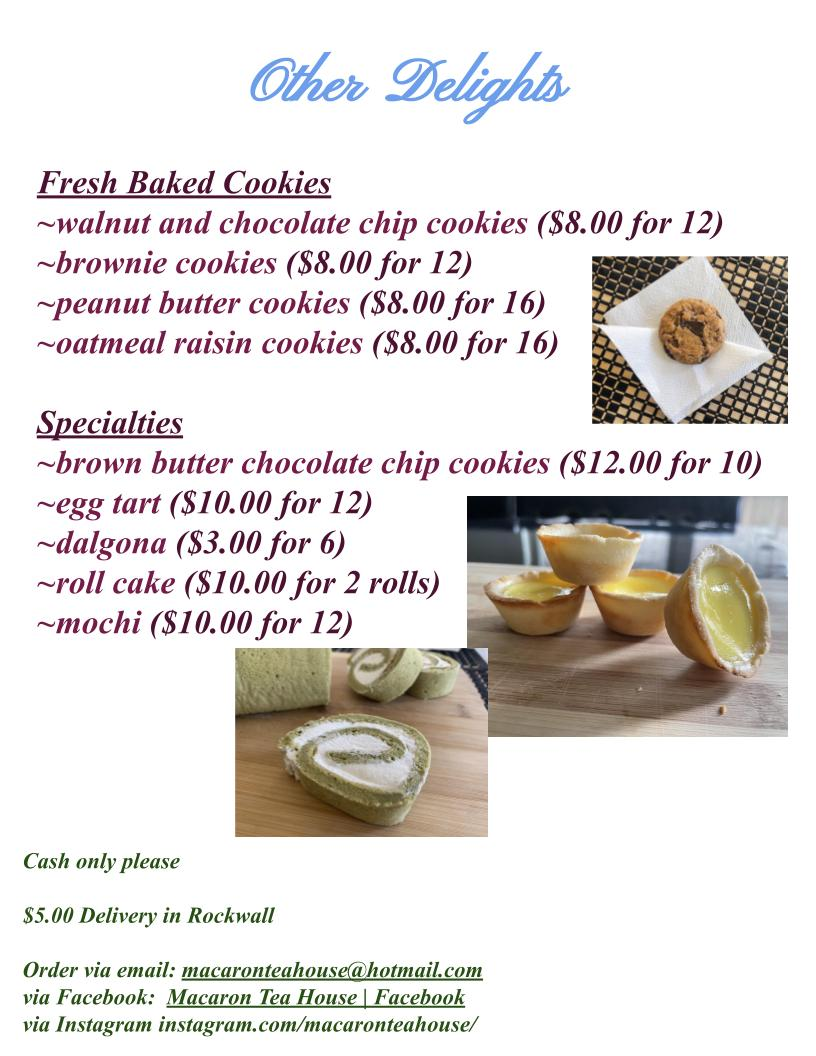
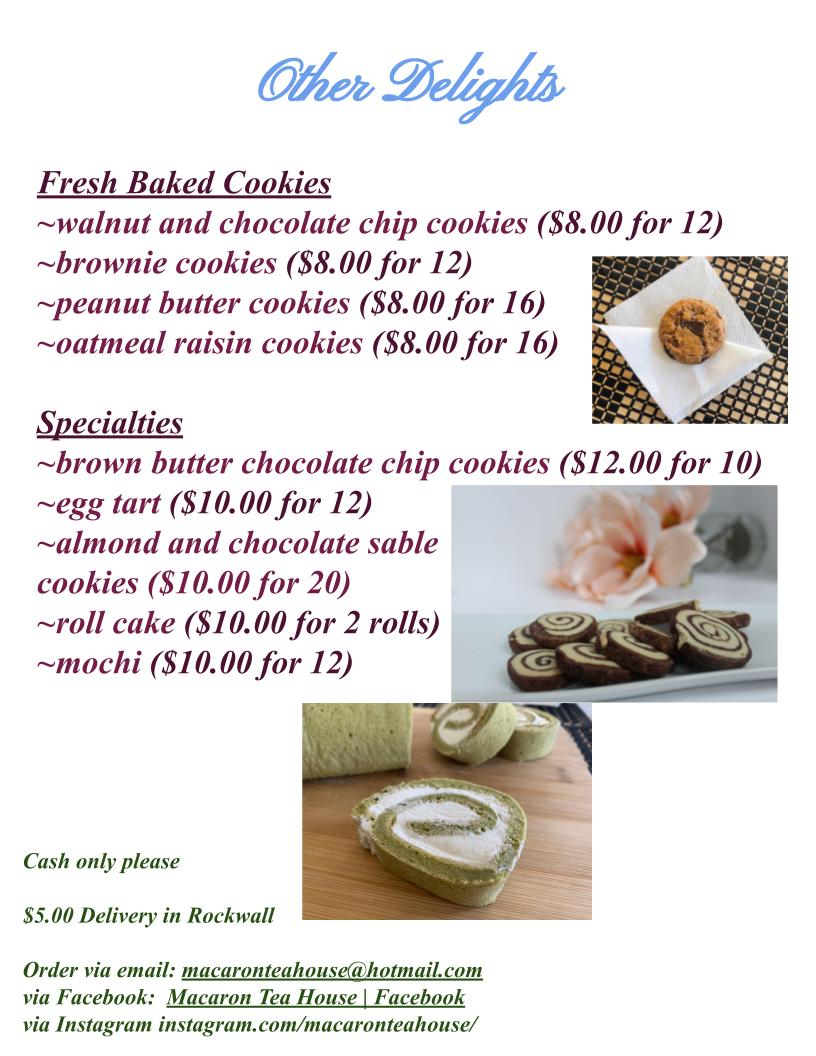
hh

Changed region(s): [[0.0306, 0.4375, 0.9804, 0.875], [0.3064, 0.0312, 0.7047, 0.125]]

diff --git a/A_Order.html b/A_Order.html
@@ -43,7 +43,8 @@
 			</container>
 		<div id=directions>
 
-		<p style="color:#a54df7; font-size:170%">Order form is currently under construction. For now, please order through an email, PM, or DM. Feel
+		<p style="color:#a54df7; font-size:170%">Order form is currently under construction.
+			For now, please order through a text message, PM, DM, or email. Feel
 		free to ask questions or add additional requests and I will respond as soon as possible. </p>
    <br> <br>
 <p>
@@ -54,9 +55,13 @@ $5.00 for delivery in Rockwall  <br>
 All other locations pickup only. <br>
 
 
-Order via email: <a href="mailto: macaronteahouse@hotmail.com"> macaronteahouse@hotmail.com<a> <br>
+Order via text messeage: 469-264-6072 <br>
 via Facebook:  <a href="https://www.facebook.com/macteahouse"> Facebook Link</a> <br>
-via Instagram <a href="https://www.instagram.com/macaronteahouse/">Instagram Link</a>
+via Instagram <a href="https://www.instagram.com/macaronteahouse/">Instagram Link</a> <br>
+via email: <a href="mailto: macaronteahouse@hotmail.com"> macaronteahouse@hotmail.com<a>
+*the response time for email is around 24 hours, we recommend communicating through the above methods
+if possible. Thank you
+
  </p>
 
 	 </p>

diff --git a/A_OtherBakedGoods.html b/A_OtherBakedGoods.html
@@ -143,8 +143,8 @@
 		<p style="position:relative;"><u>Rollcake</u> ($10.00 for 2 rolls ~approx. 6-8 pieces per roll) </p>
 		</div>
 		<div id="Dalgona">
-		<img src="Pictures/dalgona.jpg" width="100%" height="auto">
-		<p style="position:relative;"><u>Dalgona</u> ($3.00 for 6 pieces) </p>
+		<img src="Pictures/sable2.jpg" width="100%" height="auto">
+		<p style="position:relative;"><u>Almond and Chocolate Sable Cookies</u> ($10.00 for 20 cookies) </p>
 		</div>
 	</container>
 		<div id="goods-menu">
